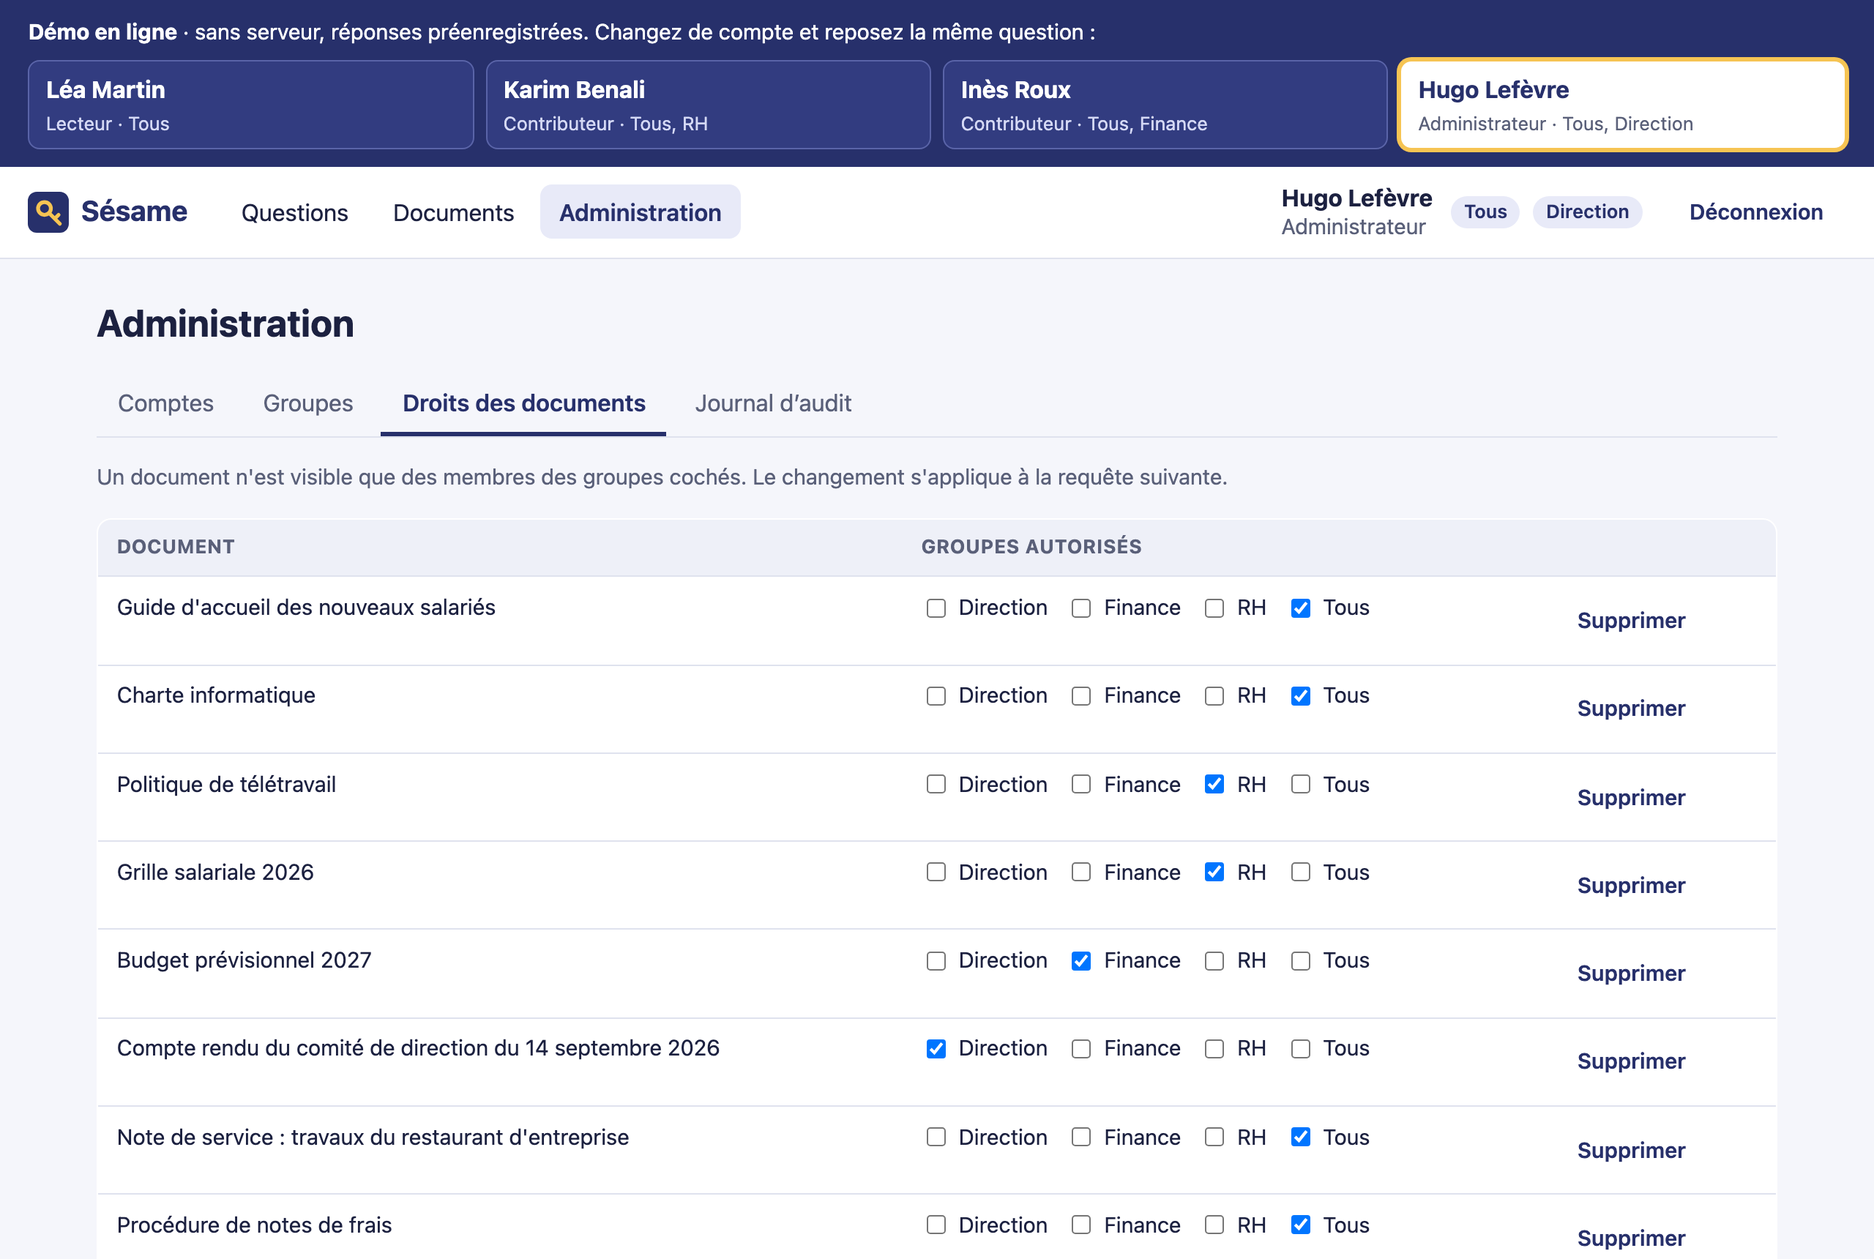
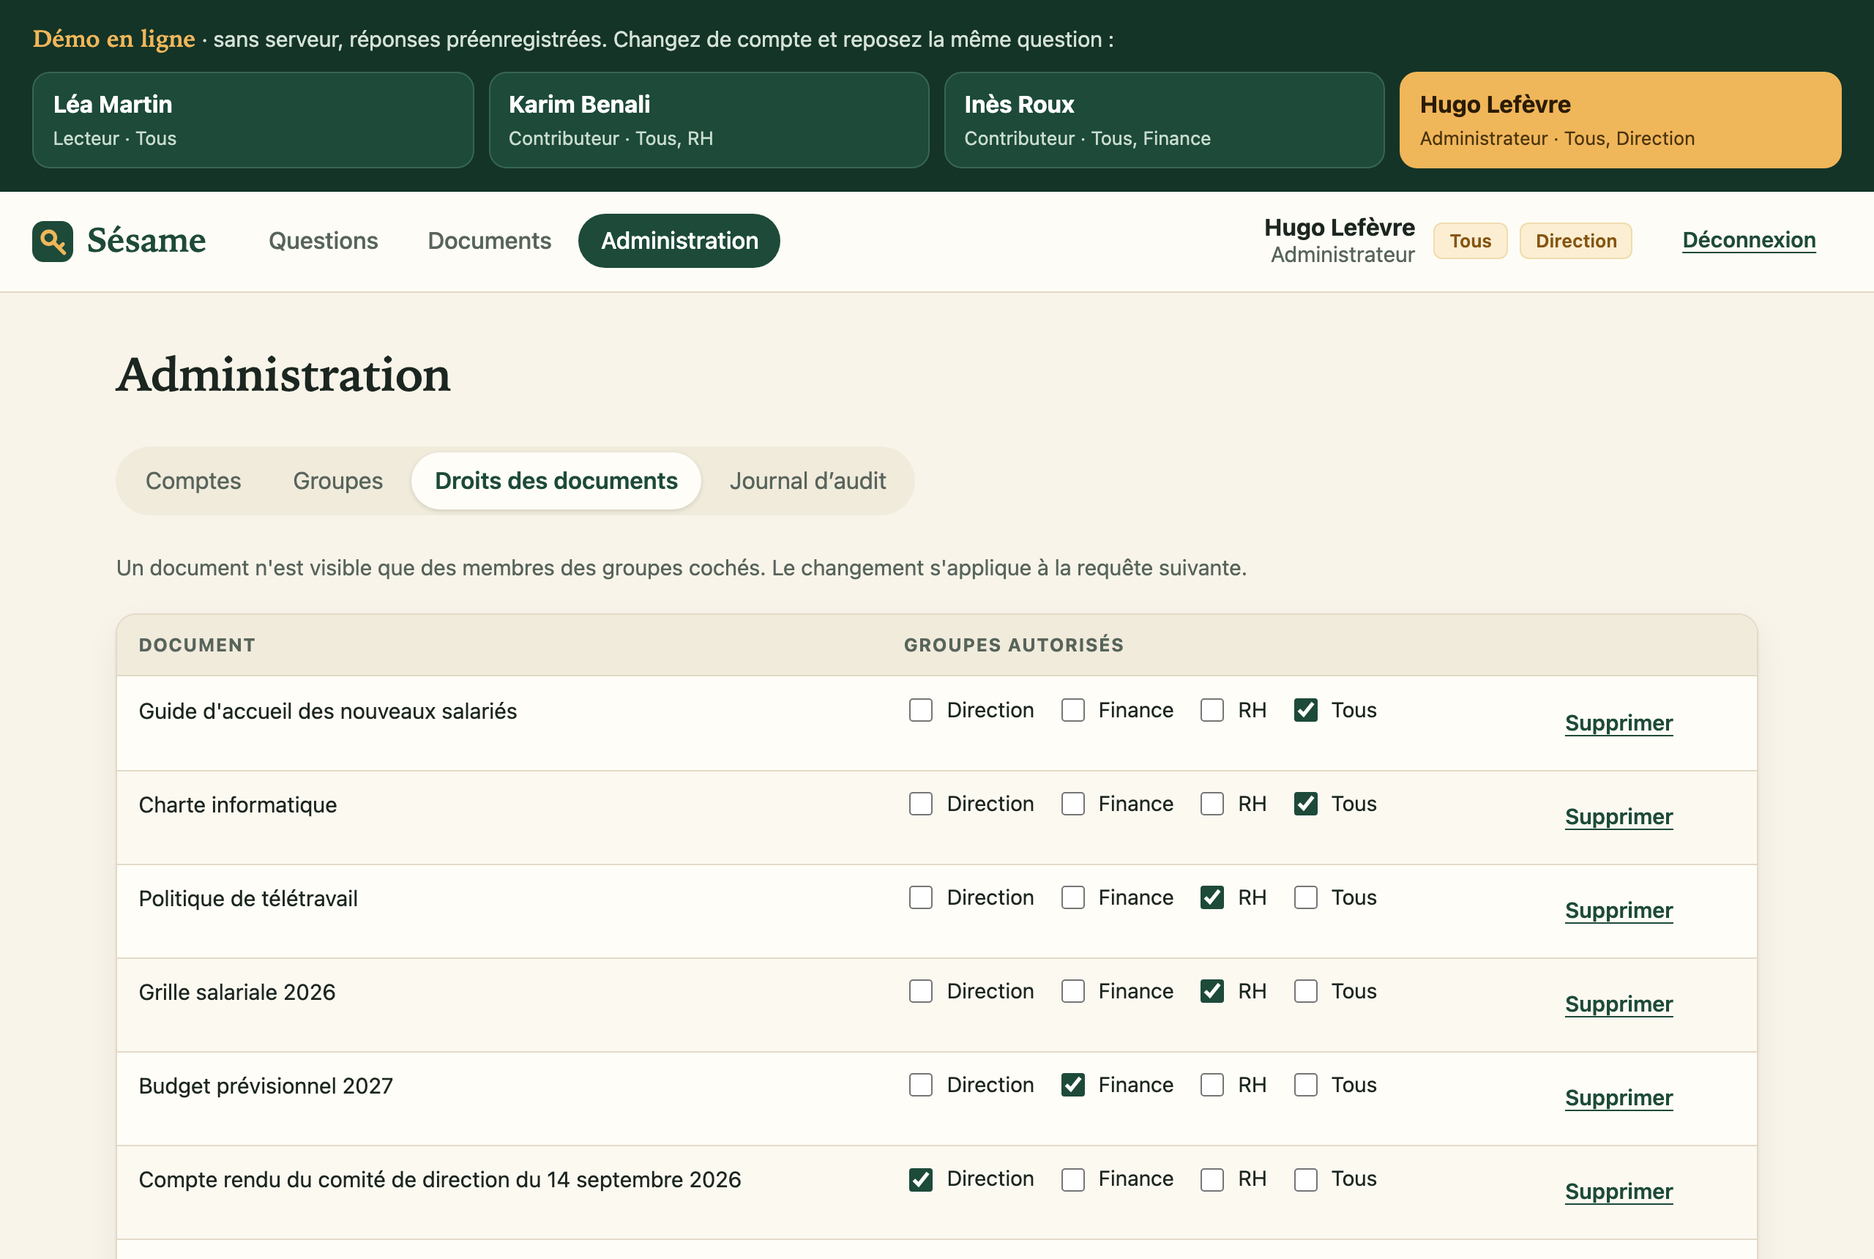
style(frontend): passe à une palette crème, vert sapin et ambre
Refait les captures du README avec ce design, et attend le chargement du
journal d'audit avant de le capturer.

diff --git a/frontend/src/styles.css b/frontend/src/styles.css
@@ -1,121 +1,141 @@
-/* Sésame - feuille de style de l'application */
+/* Sésame - feuille de style de l'application
+   Papier crème, vert sapin et ambre : une bibliothèque plutôt qu'un tableau de bord. */
 
 :root {
-  --encre: #1c2140;
-  --encre-douce: #5a6079;
-  --fond: #f5f6fb;
-  --surface: #ffffff;
-  --trait: #dfe2ee;
-  --marque: #27306b;
-  --marque-claire: #e8eaf8;
-  --accent: #b3540e;
-  --alerte: #a4262c;
-  --alerte-claire: #fdecea;
-  --succes: #1c6b3c;
-  --rayon: 10px;
+  --encre: #1c2620;
+  --encre-douce: #57645b;
+  --fond: #f8f4ea;
+  --surface: #fffdf7;
+  --creux: #f1ebdc;
+  --trait: #e2dac6;
+  --marque: #1d4a39;
+  --marque-sombre: #143427;
+  --marque-claire: #e3eee6;
+  --ambre: #f0b65a;
+  --ambre-clair: #fbeed3;
+  --ambre-texte: #855510;
+  --alerte: #9b2c22;
+  --alerte-claire: #fbe9e4;
+  --succes: #1f6a45;
+  --rayon: 14px;
+  --ombre: 0 1px 2px rgb(28 38 32 / 6%), 0 8px 24px rgb(28 38 32 / 6%);
+  --titres: 'Iowan Old Style', 'Palatino Linotype', Palatino, Georgia, serif;
   font-family: system-ui, -apple-system, 'Segoe UI', Roboto, sans-serif;
   color: var(--encre);
   background: var(--fond);
-  line-height: 1.5;
+  line-height: 1.55;
 }
 
 * { box-sizing: border-box; }
 body { margin: 0; }
-h1 { font-size: 1.6rem; margin: 0 0 .4rem; }
-h2 { font-size: 1.1rem; margin: 0 0 .6rem; }
+h1, h2, .marque { font-family: var(--titres); letter-spacing: -.01em; }
+h1 { font-size: 2rem; font-weight: 600; margin: 0 0 .3rem; }
+h2 { font-size: 1.2rem; font-weight: 600; margin: 0 0 .6rem; }
 ul { list-style: none; margin: 0; padding: 0; }
-main { max-width: 1180px; margin: 0 auto; padding: 1.5rem 1rem 3rem; }
+main { max-width: 1160px; margin: 0 auto; padding: 2rem 1.2rem 4rem; }
 .discret { color: var(--encre-douce); font-size: .92rem; }
 .invisible { position: absolute; width: 1px; height: 1px; overflow: hidden; clip-path: inset(50%); }
-:focus-visible { outline: 3px solid #f6c453; outline-offset: 2px; }
+:focus-visible { outline: 3px solid var(--ambre); outline-offset: 2px; border-radius: 6px; }
 
 /* En-tête */
-.entete { display: flex; align-items: center; gap: 1.5rem; flex-wrap: wrap; padding: .7rem 1.2rem; background: var(--surface); border-bottom: 1px solid var(--trait); }
-.marque { display: flex; align-items: center; gap: .5rem; font-weight: 700; font-size: 1.2rem; color: var(--marque); text-decoration: none; }
-.entete nav { display: flex; gap: .3rem; flex: 1; }
-.entete nav a { padding: .4rem .8rem; border-radius: 8px; color: var(--encre); text-decoration: none; }
-.entete nav a.actif { background: var(--marque-claire); color: var(--marque); font-weight: 600; }
+.entete { position: sticky; top: 0; z-index: 2; display: flex; align-items: center; gap: 1.5rem; flex-wrap: wrap; padding: .75rem 1.4rem; background: rgb(255 253 247 / 92%); backdrop-filter: blur(8px); border-bottom: 1px solid var(--trait); }
+.marque { display: flex; align-items: center; gap: .55rem; font-weight: 600; font-size: 1.45rem; color: var(--marque); text-decoration: none; }
+.entete nav { display: flex; gap: .2rem; flex: 1; padding: .2rem; }
+.entete nav a { padding: .4rem .95rem; border-radius: 99px; color: var(--encre-douce); text-decoration: none; font-weight: 500; }
+.entete nav a:hover { color: var(--marque); background: var(--creux); }
+.entete nav a.actif { background: var(--marque); color: #fff; }
 .compte { display: flex; align-items: center; gap: .8rem; flex-wrap: wrap; }
-.compte > div { display: flex; flex-direction: column; line-height: 1.2; }
+.compte > div { display: flex; flex-direction: column; line-height: 1.2; text-align: right; }
 .etiquettes { display: flex; gap: .3rem; flex-wrap: wrap; }
-.etiquette { display: inline-block; padding: .1rem .55rem; border-radius: 99px; background: var(--marque-claire); color: var(--marque); font-size: .8rem; font-weight: 600; margin-right: .25rem; }
+.etiquette { display: inline-block; padding: .12rem .6rem; border-radius: 6px; background: var(--ambre-clair); color: var(--ambre-texte); font-size: .78rem; font-weight: 600; margin-right: .25rem; border: 1px solid #f0dcae; }
 
 /* Bandeau du mode démo */
-.bandeau-demo { background: var(--marque); color: #fff; padding: .7rem 1.2rem; }
-.bandeau-demo p { margin: 0 0 .5rem; font-size: .92rem; }
-.comptes-demo { display: grid; grid-template-columns: repeat(auto-fit, minmax(190px, 1fr)); gap: .5rem; }
-.compte-demo { display: flex; flex-direction: column; align-items: flex-start; gap: .1rem; padding: .45rem .7rem; border: 1px solid #5a64a8; border-radius: 8px; background: #323c80; color: #fff; font: inherit; text-align: left; cursor: pointer; }
-.compte-demo span { font-size: .8rem; color: #d5d9f5; }
-.compte-demo:hover:not(:disabled) { background: #3d4894; }
-.compte-demo.courant { background: #fff; color: var(--marque); border-color: #f6c453; box-shadow: 0 0 0 2px #f6c453; }
-.compte-demo.courant span { color: var(--encre-douce); }
+.bandeau-demo { background: var(--marque-sombre); color: #f3efe2; padding: .9rem 1.4rem 1rem; }
+.bandeau-demo p { margin: 0 0 .6rem; font-size: .92rem; color: #d5e2d8; }
+.bandeau-demo p strong { color: var(--ambre); font-family: var(--titres); font-size: 1rem; }
+.comptes-demo { display: grid; grid-template-columns: repeat(auto-fit, minmax(190px, 1fr)); gap: .6rem; }
+.compte-demo { display: flex; flex-direction: column; align-items: flex-start; gap: .1rem; padding: .55rem .8rem; border: 1px solid #386652; border-radius: 12px; background: #1d4a39; color: #fff; font: inherit; text-align: left; cursor: pointer; transition: transform .12s, background .12s; }
+.compte-demo span { font-size: .8rem; color: #c9dccf; }
+.compte-demo:hover:not(:disabled) { background: #26594a; transform: translateY(-1px); }
+.compte-demo.courant { background: var(--ambre); color: #2a1c05; border-color: var(--ambre); }
+.compte-demo.courant span { color: #4a340c; }
 
 /* Formulaires et boutons */
-label { display: flex; flex-direction: column; gap: .25rem; font-size: .92rem; font-weight: 600; }
-input:not([type='checkbox']), select { font: inherit; padding: .5rem .65rem; border: 1px solid #b9bfd6; border-radius: 8px; background: #fff; color: var(--encre); min-width: 0; }
-fieldset { border: 1px solid var(--trait); border-radius: 8px; padding: .5rem .8rem; margin: 0; }
-legend { font-size: .92rem; font-weight: 600; padding: 0 .3rem; }
-.case { flex-direction: row; align-items: center; gap: .35rem; font-weight: 400; display: inline-flex; margin-right: .8rem; }
-.bouton { font: inherit; font-weight: 600; padding: .5rem .9rem; border-radius: 8px; border: 1px solid #b9bfd6; background: #fff; color: var(--encre); cursor: pointer; }
-.bouton:hover:not(:disabled) { background: var(--marque-claire); }
+label { display: flex; flex-direction: column; gap: .3rem; font-size: .9rem; font-weight: 600; }
+input:not([type='checkbox']), select { font: inherit; padding: .55rem .75rem; border: 1px solid #c9bfa6; border-radius: 10px; background: #fff; color: var(--encre); min-width: 0; }
+input:not([type='checkbox']):focus, select:focus { border-color: var(--marque); }
+input[type='checkbox'] { accent-color: var(--marque); width: 1rem; height: 1rem; }
+fieldset { border: 1px solid var(--trait); border-radius: 10px; padding: .6rem .9rem; margin: 0; }
+legend { font-size: .9rem; font-weight: 600; padding: 0 .3rem; }
+.case { flex-direction: row; align-items: center; gap: .4rem; font-weight: 400; display: inline-flex; margin-right: .9rem; }
+.bouton { font: inherit; font-weight: 600; padding: .5rem 1rem; border-radius: 99px; border: 1px solid #c9bfa6; background: var(--surface); color: var(--encre); cursor: pointer; transition: background .12s; }
+.bouton:hover:not(:disabled) { background: var(--creux); }
 .bouton.principal { background: var(--marque); border-color: var(--marque); color: #fff; }
-.bouton.principal:hover:not(:disabled) { background: #1d2555; }
-.bouton.discret { border-color: transparent; color: var(--marque); font-size: .92rem; }
-button:disabled { opacity: .55; cursor: not-allowed; }
-.erreur { color: var(--alerte); background: var(--alerte-claire); padding: .5rem .8rem; border-radius: 8px; margin: .4rem 0; }
-small.erreur { display: block; font-size: .82rem; }
-.note { color: var(--succes); background: #e7f4ec; padding: .5rem .8rem; border-radius: 8px; margin: .4rem 0; }
-.carte { background: var(--surface); border: 1px solid var(--trait); border-radius: var(--rayon); padding: 1.2rem; margin: 1rem 0; display: flex; flex-direction: column; gap: .8rem; }
-.ligne { display: flex; flex-direction: row; flex-wrap: wrap; gap: .8rem; align-items: flex-end; }
-.connexion { max-width: 430px; margin: 3rem auto; }
-.connexion form { display: flex; flex-direction: column; gap: .8rem; }
+.bouton.principal:hover:not(:disabled) { background: var(--marque-sombre); }
+.bouton.discret { border-color: transparent; background: none; color: var(--marque); font-size: .92rem; text-decoration: underline; text-underline-offset: 3px; }
+button:disabled { opacity: .5; cursor: not-allowed; }
+.erreur { color: var(--alerte); background: var(--alerte-claire); padding: .55rem .9rem; border-radius: 10px; margin: .4rem 0; border-left: 4px solid var(--alerte); }
+small.erreur { display: block; font-size: .82rem; border-left-width: 3px; }
+.note { color: var(--succes); background: var(--marque-claire); padding: .55rem .9rem; border-radius: 10px; margin: .4rem 0; border-left: 4px solid var(--succes); }
+.carte { background: var(--surface); border: 1px solid var(--trait); border-radius: var(--rayon); padding: 1.4rem; margin: 1.2rem 0; display: flex; flex-direction: column; gap: .9rem; box-shadow: var(--ombre); }
+.ligne { display: flex; flex-direction: row; flex-wrap: wrap; gap: .9rem; align-items: flex-end; }
+.connexion { max-width: 440px; margin: 3.5rem auto; padding: 2rem; border-top: 5px solid var(--ambre); }
+.connexion form { display: flex; flex-direction: column; gap: .9rem; }
 
 /* Page des questions */
-.questions { display: grid; grid-template-columns: 260px 1fr; gap: 1.5rem; align-items: start; }
-.historique { background: var(--surface); border: 1px solid var(--trait); border-radius: var(--rayon); padding: .8rem; display: flex; flex-direction: column; gap: .6rem; }
-.historique li { display: flex; align-items: center; gap: .2rem; border-radius: 8px; }
-.historique li.courante { background: var(--marque-claire); }
-.lien { flex: 1; text-align: left; font: inherit; font-size: .92rem; background: none; border: 0; padding: .4rem .5rem; color: var(--encre); cursor: pointer; overflow: hidden; text-overflow: ellipsis; white-space: nowrap; }
+.questions { display: grid; grid-template-columns: 250px 1fr; gap: 2rem; align-items: start; }
+.historique { position: sticky; top: 5rem; background: var(--creux); border-radius: var(--rayon); padding: .9rem; display: flex; flex-direction: column; gap: .7rem; }
+.historique .bouton { width: 100%; }
+.historique li { display: flex; align-items: center; gap: .2rem; border-radius: 10px; }
+.historique li.courante { background: var(--surface); box-shadow: inset 3px 0 0 var(--ambre); }
+.lien { flex: 1; text-align: left; font: inherit; font-size: .9rem; background: none; border: 0; padding: .45rem .6rem; color: var(--encre); cursor: pointer; overflow: hidden; text-overflow: ellipsis; white-space: nowrap; }
 .supprimer { background: none; border: 0; color: var(--encre-douce); font-size: 1.1rem; cursor: pointer; padding: .2rem .5rem; }
-.fil { display: flex; flex-direction: column; gap: 1rem; min-width: 0; }
-.accueil { padding: 2rem 0 .5rem; }
-.echange { background: var(--surface); border: 1px solid var(--trait); border-radius: var(--rayon); padding: 1rem 1.2rem; }
-.question { font-size: 1.05rem; margin-bottom: .5rem; color: var(--marque); }
-.texte-reponse { margin: 0; white-space: pre-wrap; }
+.fil { display: flex; flex-direction: column; gap: 1.2rem; min-width: 0; }
+.accueil { padding: 2.5rem 0 .5rem; }
+.accueil h1 { font-size: 2.6rem; }
+.echange { display: flex; flex-direction: column; gap: .8rem; }
+.question { align-self: flex-end; max-width: 80%; margin: 0; padding: .6rem 1rem; border-radius: 16px 16px 4px 16px; background: var(--marque); color: #fff; font-family: inherit; font-size: 1rem; font-weight: 500; letter-spacing: 0; }
+.echange app-reponse, .echange > .erreur { display: block; background: var(--surface); border: 1px solid var(--trait); border-left: 4px solid var(--ambre); border-radius: 4px 16px 16px 16px; padding: 1rem 1.2rem; box-shadow: var(--ombre); }
+.echange > .erreur { border-left-color: var(--alerte); background: var(--alerte-claire); margin: 0; }
+.texte-reponse { margin: 0; white-space: pre-wrap; font-size: 1.03rem; }
 .texte-reponse.sans-reponse { color: var(--encre-douce); font-style: italic; }
-.renvoi { font: inherit; font-size: .75rem; font-weight: 700; min-width: 1.5rem; height: 1.5rem; padding: 0 .3rem; margin: 0 .15rem; border-radius: 99px; border: 1px solid var(--marque); background: var(--marque-claire); color: var(--marque); cursor: pointer; vertical-align: text-top; }
-.renvoi.ouvert, .renvoi:hover { background: var(--marque); color: #fff; }
-.curseur { display: inline-block; width: .5rem; height: 1rem; margin-left: .15rem; background: var(--marque); vertical-align: text-bottom; animation: clignoter 1s steps(2) infinite; }
+.renvoi { font: inherit; font-size: .72rem; font-weight: 700; min-width: 1.45rem; height: 1.45rem; padding: 0 .3rem; margin: 0 .15rem; border-radius: 6px; border: 1px solid #e3c98f; background: var(--ambre-clair); color: var(--ambre-texte); cursor: pointer; vertical-align: text-top; }
+.renvoi.ouvert, .renvoi:hover { background: var(--ambre); color: #2a1c05; border-color: var(--ambre); }
+.curseur { display: inline-block; width: .5rem; height: 1rem; margin-left: .15rem; background: var(--ambre); vertical-align: text-bottom; animation: clignoter 1s steps(2) infinite; }
 @keyframes clignoter { 50% { opacity: 0; } }
-@media (prefers-reduced-motion: reduce) { .curseur { animation: none; } }
-.sources { margin-top: .8rem; display: flex; flex-direction: column; gap: .35rem; }
-.source { border: 1px solid var(--trait); border-radius: 8px; }
-.source.ouverte { border-color: var(--marque); }
-.titre-source { width: 100%; display: flex; align-items: center; gap: .5rem; padding: .4rem .6rem; background: none; border: 0; font: inherit; font-size: .92rem; text-align: left; color: var(--encre); cursor: pointer; }
-.numero { display: inline-grid; place-items: center; min-width: 1.4rem; height: 1.4rem; border-radius: 99px; background: var(--marque); color: #fff; font-size: .75rem; font-weight: 700; }
-.source blockquote { margin: 0; padding: .6rem .8rem; border-top: 1px solid var(--trait); background: #fafbff; font-size: .92rem; border-radius: 0 0 8px 8px; }
-.suggestions { display: flex; flex-wrap: wrap; gap: .4rem; }
-.suggestion { font: inherit; font-size: .88rem; padding: .35rem .7rem; border-radius: 99px; border: 1px solid #b9bfd6; background: var(--surface); color: var(--encre); cursor: pointer; }
-.suggestion:hover:not(:disabled) { border-color: var(--marque); color: var(--marque); }
-.saisie { display: flex; gap: .5rem; position: sticky; bottom: .8rem; background: var(--surface); border: 1px solid var(--trait); border-radius: var(--rayon); padding: .6rem; box-shadow: 0 6px 20px rgb(28 33 64 / 8%); }
-.saisie input { flex: 1; }
+@media (prefers-reduced-motion: reduce) { .curseur { animation: none; } .compte-demo { transition: none; } }
+.sources { margin-top: .9rem; padding-top: .8rem; border-top: 1px dashed var(--trait); display: flex; flex-direction: column; gap: .35rem; }
+.source { border-radius: 10px; background: var(--fond); }
+.source.ouverte { background: var(--ambre-clair); }
+.titre-source { width: 100%; display: flex; align-items: center; gap: .55rem; padding: .45rem .65rem; background: none; border: 0; font: inherit; font-size: .9rem; text-align: left; color: var(--encre); cursor: pointer; }
+.numero { display: inline-grid; place-items: center; min-width: 1.4rem; height: 1.4rem; border-radius: 6px; background: var(--ambre); color: #2a1c05; font-size: .75rem; font-weight: 700; }
+.source blockquote { margin: 0; padding: .2rem .9rem .8rem 2.6rem; font-family: var(--titres); font-size: .98rem; color: #33291a; }
+.suggestions { display: flex; flex-wrap: wrap; gap: .45rem; }
+.suggestion { font: inherit; font-size: .86rem; padding: .35rem .8rem; border-radius: 99px; border: 1px dashed #c9bfa6; background: transparent; color: var(--encre-douce); cursor: pointer; }
+.suggestion:hover:not(:disabled) { border-style: solid; border-color: var(--marque); color: var(--marque); background: var(--surface); }
+.saisie { display: flex; gap: .5rem; position: sticky; bottom: 1rem; background: var(--surface); border: 1px solid var(--trait); border-radius: 99px; padding: .45rem .45rem .45rem .6rem; box-shadow: 0 10px 30px rgb(28 38 32 / 14%); }
+.saisie input { flex: 1; border: 0; background: transparent; outline-offset: -2px; border-radius: 99px; }
 
 /* Tableaux */
-table { width: 100%; border-collapse: collapse; background: var(--surface); border: 1px solid var(--trait); border-radius: var(--rayon); overflow: hidden; margin: 1rem 0; }
-th, td { text-align: left; padding: .6rem .8rem; border-bottom: 1px solid var(--trait); vertical-align: top; font-size: .93rem; }
-th { background: #eef0f8; font-size: .82rem; text-transform: uppercase; letter-spacing: .03em; color: var(--encre-douce); }
+table { width: 100%; border-collapse: separate; border-spacing: 0; background: var(--surface); border: 1px solid var(--trait); border-radius: var(--rayon); overflow: hidden; margin: 1.2rem 0; box-shadow: var(--ombre); }
+th, td { text-align: left; padding: .7rem .9rem; border-bottom: 1px solid var(--trait); vertical-align: top; font-size: .93rem; }
+th { background: var(--creux); font-size: .78rem; text-transform: uppercase; letter-spacing: .06em; color: var(--encre-douce); }
+tbody tr:nth-child(even) td { background: #fcf9f1; }
 tr:last-child td { border-bottom: 0; }
 .etat { font-weight: 600; }
+.etat::before { content: ''; display: inline-block; width: .55rem; height: .55rem; border-radius: 99px; margin-right: .4rem; background: currentColor; }
 .etat[data-etat='INDEXE'] { color: var(--succes); }
 .etat[data-etat='EN_ECHEC'] { color: var(--alerte); }
-.etat[data-etat='EN_ATTENTE'], .etat[data-etat='EN_COURS'] { color: var(--accent); }
+.etat[data-etat='EN_ATTENTE'], .etat[data-etat='EN_COURS'] { color: var(--ambre-texte); }
 .journal code { font-size: .8rem; word-break: break-word; }
-.onglets { display: flex; gap: .3rem; flex-wrap: wrap; border-bottom: 1px solid var(--trait); margin: 1rem 0; }
-.onglets button { font: inherit; padding: .5rem .9rem; border: 0; border-bottom: 3px solid transparent; background: none; color: var(--encre-douce); cursor: pointer; }
-.onglets button.actif { color: var(--marque); border-bottom-color: var(--marque); font-weight: 600; }
-.liste li { display: flex; align-items: center; gap: .8rem; padding: .5rem 0; border-bottom: 1px solid var(--trait); }
+.onglets { display: inline-flex; gap: .2rem; flex-wrap: wrap; padding: .25rem; margin: 1.2rem 0 .6rem; background: var(--creux); border-radius: 99px; }
+.onglets button { font: inherit; padding: .45rem 1rem; border: 0; border-radius: 99px; background: none; color: var(--encre-douce); cursor: pointer; }
+.onglets button.actif { background: var(--surface); color: var(--marque); font-weight: 600; box-shadow: 0 1px 3px rgb(28 38 32 / 15%); }
+.liste li { display: flex; align-items: center; gap: .8rem; padding: .6rem 0; border-bottom: 1px solid var(--trait); }
 
 @media (max-width: 800px) {
   .questions { grid-template-columns: 1fr; }
+  .historique { position: static; }
+  .question { max-width: 100%; }
   table { display: block; overflow-x: auto; }
 }

diff --git a/frontend/src/index.html b/frontend/src/index.html
@@ -6,6 +6,7 @@
   <base href="/">
   <meta name="viewport" content="width=device-width, initial-scale=1">
   <meta name="description" content="Sésame : posez vos questions sur les documents de l'entreprise. Les réponses citent leurs sources et respectent vos droits d'accès.">
+  <meta name="theme-color" content="#1d4a39">
   <link rel="icon" type="image/svg+xml" href="favicon.svg">
 </head>
 <body>
